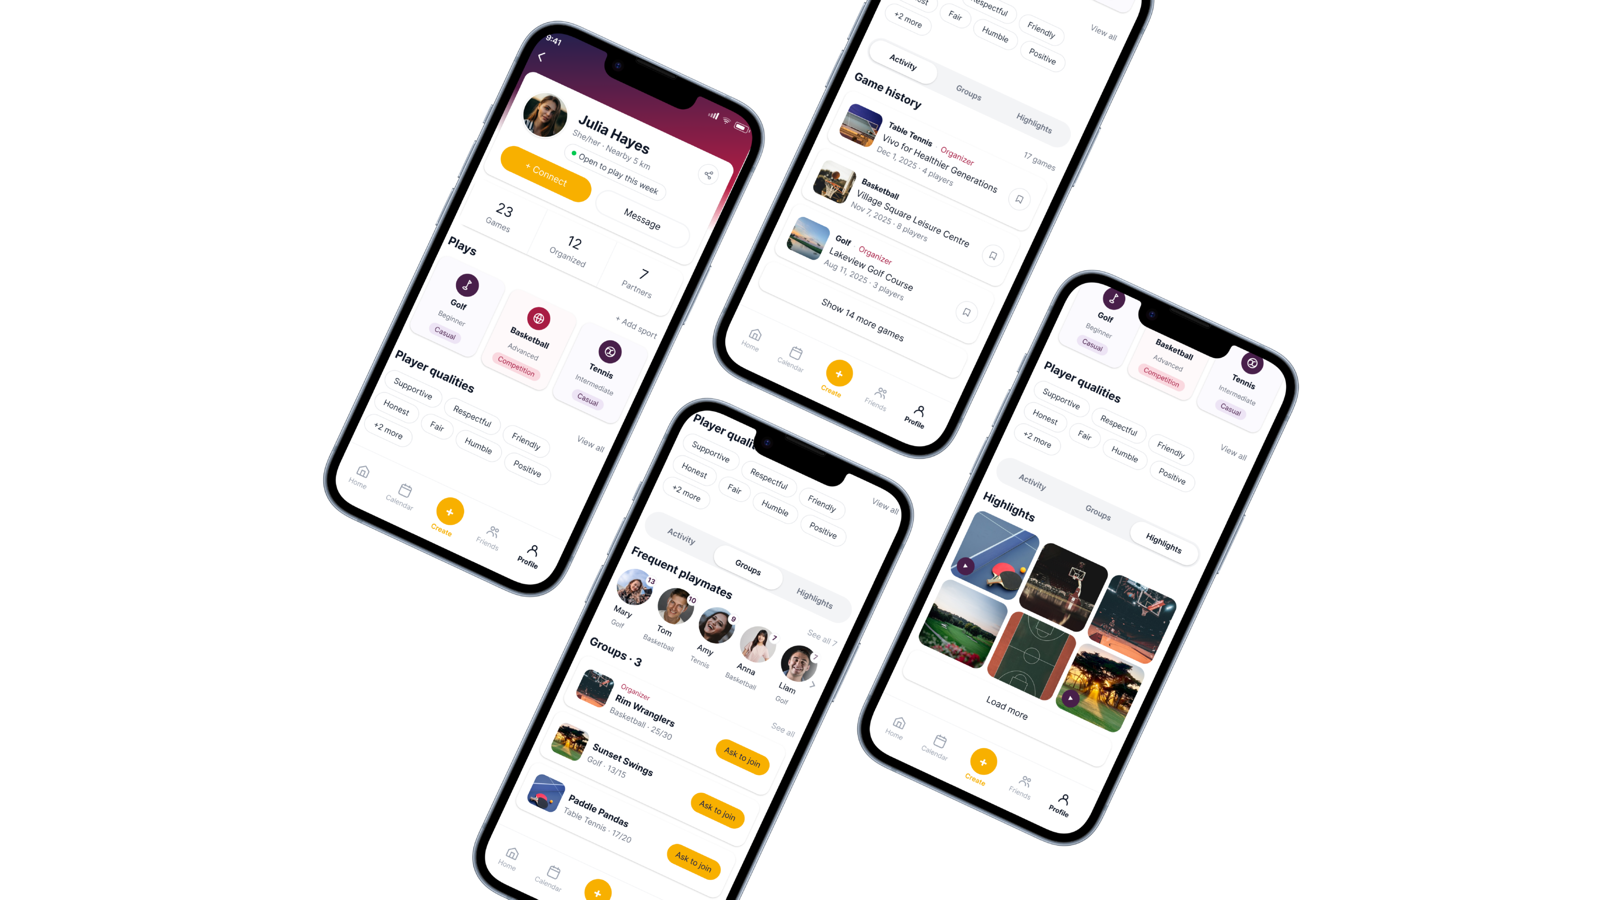
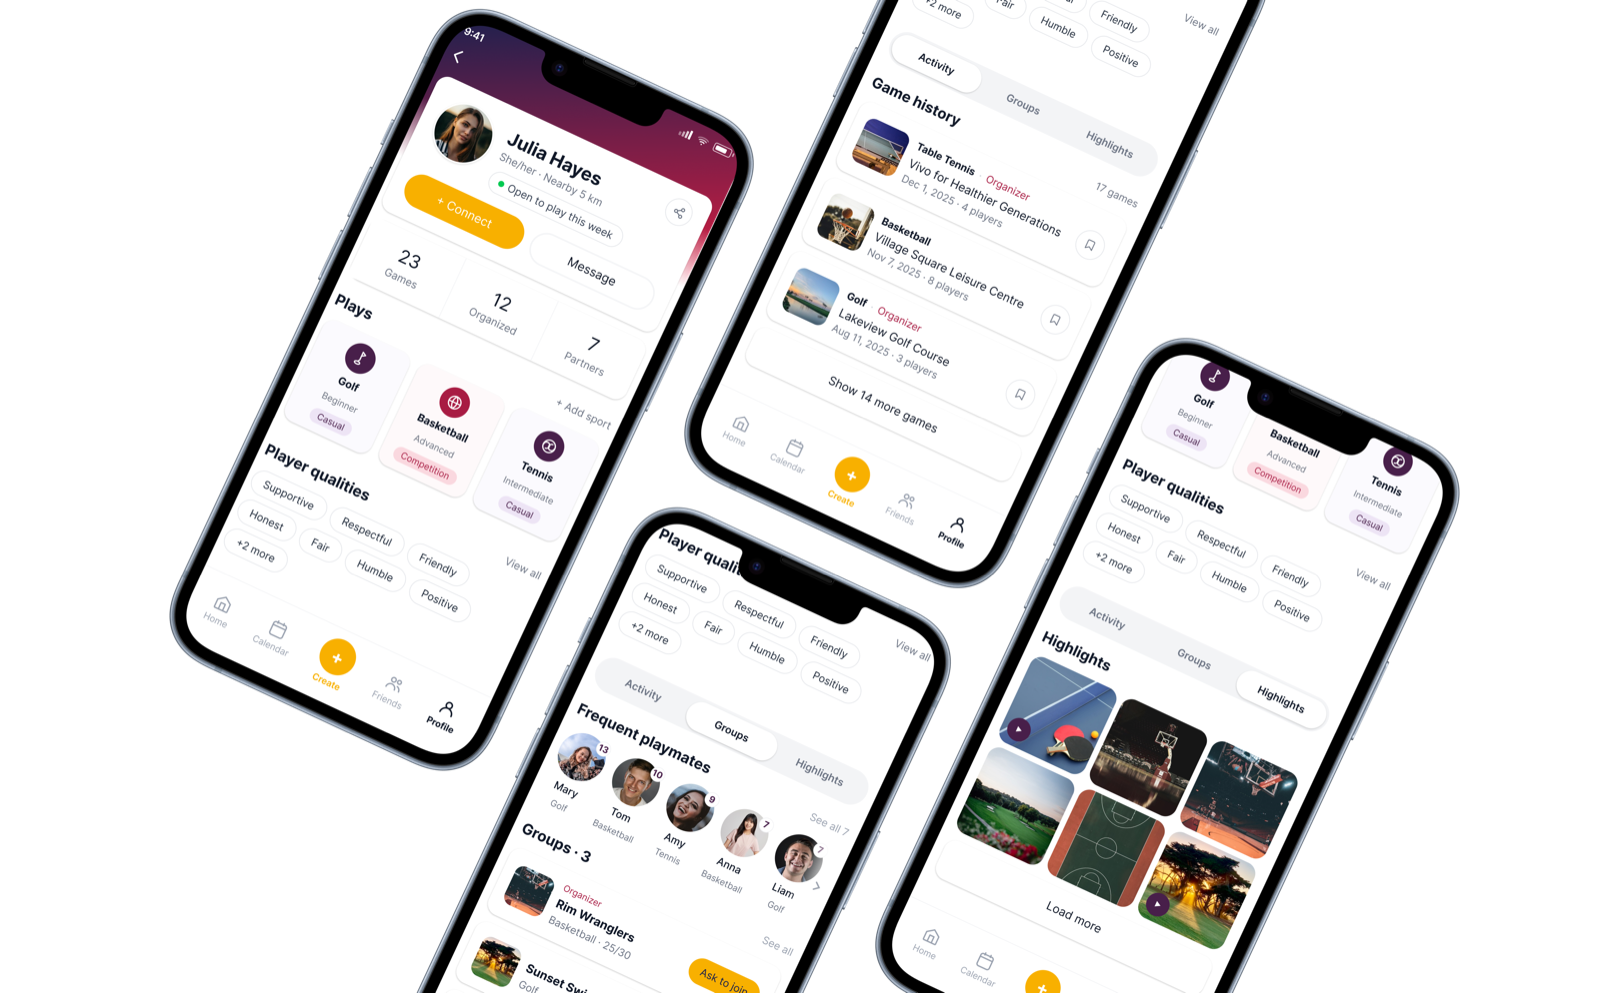
feat: swap Cudagra hero image, retune thumbnail zoom for new aspect
New hero image (was 16:9, now ~1.61:1) reused for both the case-study
hero and the work-grid thumbnail. Re-tuned --thumb-zoom for the new
aspect ratio so the thumbnail still fills top-to-bottom with no
letterboxing.

Changed region(s): [[0.0938, 0.0, 0.9375, 1.0], [0.75, 0.0, 0.8125, 0.1244], [0.7812, 0.6844, 0.8125, 0.7156]]

diff --git a/index.html b/index.html
@@ -145,7 +145,7 @@
 
       <div class="grid measure-wide">
         <a class="case" href="cudagra.html">
-          <div class="thumb is-contain" style="--thumb-zoom:1.2" aria-hidden="true">
+          <div class="thumb is-contain" style="--thumb-zoom:1.1" aria-hidden="true">
             <img src="images/cudagra-hero.png" alt="">
           </div>
           <div class="case-body">
